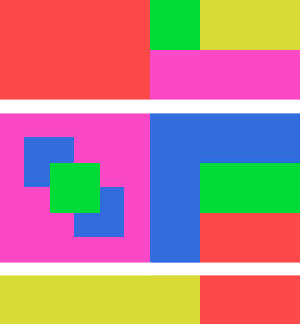
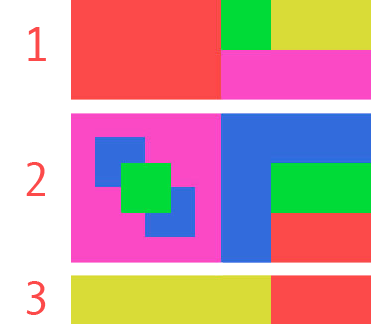
"Lesson 2 > second row part" update

diff --git a/_sass/pages/_lessons.scss b/_sass/pages/_lessons.scss
@@ -12,6 +12,46 @@
     }
 }
 
+.lesson-step {
+   margin-bottom: 15px;
+   position: relative;
+   text-align: center;
+
+   p {
+       $_size: 24px;
+
+       @include theme-global("background-color", "alternate-color");
+
+       border-radius: 50%;
+       color: #FFFFFF;
+       display: inline-block;
+       margin-bottom: 0;
+
+       line-height: $_size;
+       height: $_size;
+       width: $_size;
+
+       &:after,
+       &:before {
+           @include theme-global("background-color", "alternate-color");
+
+           content: '';
+           height: 1px;
+           margin-top: 10px;
+           position: absolute;
+           width: 40%;
+       }
+
+       &:after {
+           right: 0;
+       }
+
+       &:before {
+           left: 0;
+       }
+   }
+}
+
 .lesson-content {
     h2 {
         font-size: 28px;

diff --git a/_sass/_theme-definitions.scss b/_sass/_theme-definitions.scss
@@ -2,7 +2,8 @@ $default: (
     "site-background-color": #EBEBEB,
     "content-background-color": #FFFFFF,
     "font-color": #000000,
-    "anchor-color": #87CEEB
+    "anchor-color": #87CEEB,
+    "alternate-color": #46A5E6
 );
 
 $themes: (

diff --git a/_lessons/chapter-02/lesson-2-working-from-a-design.md b/_lessons/chapter-02/lesson-2-working-from-a-design.md
@@ -22,7 +22,7 @@ Something to keep in mind is the fact that with code, there is never a wrong ans
 
 ## Step 1
 
-The first step is to use our best judgement and split up the design into rows. Take note, with this example there are *several* different ways of setting this up but this tutorial will take you on only one of them.
+The first step is to use our best judgement and split up the design into rows. Take note, with this example there are *several* different ways of setting this up but this tutorial will take you on only one of them with 3 rows.
 
 ![Layout Challenge 1 split into rows]({{ '/assets/lessons/chapter-2/lesson-2/layout-challenge-1-rows.png' | prepend: site.baseurl }})
 
@@ -37,7 +37,7 @@ The `.row` class is used to maintain the width of this element and to keep all o
 When writing these classes, it is important to keep in mind to write as few classes as possible and ensure that they can be combined with other classes. In this example, to achieve an element that is 150px by 50px in size you would not want to write a class that has those dimensions hard coded; instead, you would want to have separate classes so the sizes can be reused. By combining two classes, you can achieve these dimensions and you'd be able to reuse one of those classes if you need to create an element that's 150px by 100px.
 
 <div class="alert alert-warning" role="alert">
-    <strong>Heads up!</strong> Combining classes only work when the properties can work in conjunction, for example `width` and `height` do not conflict and can work when put together. This approach does not allow you to use addition so you would not be able to combine two `.col-w-*` classes and expect to get the sum of them, instead you would just be overriding one of the values.
+    <span markdown="1">**Heads up!** Combining classes only works when the properties can work in conjunction, for example `width` and `height` do not conflict and can work when put together. This approach does not allow you to use addition so you would not be able to combine two `.col-w-*` classes and expect to get the sum of them, instead you would just be overriding one of the values.</span>
 </div>
 
 {% capture rowColSetup %}
@@ -54,6 +54,7 @@ When writing these classes, it is important to keep in mind to write as few clas
     .col-w-1, .col-w-2,
     .col-w-3, .col-w-4 {
         float: left;
+        position: relative;
     }
     .col-w-1 { width: 50px; }
     .col-w-2 { width: 100px; }
@@ -71,9 +72,11 @@ When writing these classes, it is important to keep in mind to write as few clas
 
 ```css{{ rowColSetup }}```
 
-The first row we will be creating can be seen below; each of the colored elements will be referred to as a cell. First we must define that we want a row of cells so we start by creating an element with the `row` class.
+### First Row
 
-The `<div>` tag is one of the most heavily used tags in HTML and should be used for divisions in layouts or to create "objects," so to speak (more on this later). All HTML elements can use the `class` attribute, which has support for multiple classes delimited by spaces as described above.
+The first row we will be creating can be seen below; each of the colored elements will be referred to as a cell. First we must define that we want a row of cells so we start by creating an element with the `row` class, which is limited to 300px width. By limiting the width, floats will be automatically move to the next line if it does not fit in its parent.
+
+The `<div>` tag is one of the most heavily used tags in HTML and should be used for divisions in layouts or to create "objects," so to speak (more on this later). All HTML elements can use the `class` attribute, which has support for multiple classes being combined, delimited by spaces, as described above.
 
 {% capture firstRow %}
 <div class="row">
@@ -84,9 +87,46 @@ The `<div>` tag is one of the most heavily used tags in HTML and should be used 
 </div>
 {% endcapture %}
 
-{% include sandbox.html lang="html" code=firstRow setup=rowColSetup %}
+{% include sandbox.html lang="html" code=firstRow setup=rowColSetup frameless=1 %}
 
-@todo Write next section
+### Second Row
+
+The only shape available in HTML are rectangles (*squares are rectangles*); all of the other shapes you can create such as triangles or ovals, are still rectangles but are partially transparent to create those shapes.
+
+<div class="row">
+    <div class="col-md-4">
+        <img src="{{ '/assets/lessons/chapter-2/lesson-2/layout-challenge-1-second-split-1.png' | prepend: site.baseurl }}"
+             alt="Splitting option 1" />
+
+        <div class="lesson-step">
+            <p>1</p>
+        </div>
+    </div>
+    <div class="col-md-4">
+        <img src="{{ '/assets/lessons/chapter-2/lesson-2/layout-challenge-1-second-split-2.png' | prepend: site.baseurl }}"
+             alt="Splitting option 2" />
+
+        <div class="lesson-step">
+            <p>2</p>
+        </div>
+    </div>
+    <div class="col-md-4">
+        <img src="{{ '/assets/lessons/chapter-2/lesson-2/layout-challenge-1-second-split-3.png' | prepend: site.baseurl }}"
+             alt="Splitting option 3" />
+
+        <div class="lesson-step">
+            <p>3</p>
+        </div>
+    </div>
+</div>
+
+1. As mentioned, all shapes in HTML are rectangular so the blue tetris piece can not be recreated as-is. There are ways of mocking this sort of shape with absolute positioning, and multiple elements but it's harder to maintain and not feasible.
+1. This option consists of nothing but rectangles so it can be created easily with vanilla HTML and CSS.
+1. The same as option 2 applies to this option.
+
+In this example, we'll be going with option 2 (as seen below). Options 2 and 3 take advantage of floats being contained within its parents so they will automatically wrap to the next line. This means that all 150px by 50px blocks will stack up on each other since they continue to wrap to the next line.
+
+*If you add another element after the last red block, it'll wrap to the next line and appear under the purple square.*
 
 {% capture secondRow %}
 <div class="row">
@@ -98,7 +138,56 @@ The `<div>` tag is one of the most heavily used tags in HTML and should be used 
 </div>
 {% endcapture %}
 
-{% include sandbox.html lang="html" code=secondRow setup=rowColSetup %}
+{% include sandbox.html lang="html" code=secondRow setup=rowColSetup frameless=1 %}
+
+#### Absolute Positioning
+
+You may have noticed that our output does not exactly look like our picture for this row (i.e. there are no green and blue squares inside of the purple square). These squares can be placed in a fixed location with the `position` propery and using the `absolute` value.
+
+In order to use `position: absolute`, the parent must have `position: relative` or else the child element will be relative to the browser, which is not what we want because resizing the browser will cause all sorts of issues.
+
+To achieve our goal, we will be adding new cells inside of our parent in order for them to be positioned absolutely with respect to the parent. We will create a `.col-absolute` class which will have the `position` property and we have it as a separate class because it will be reused by different elements that can be placed in different locations. Notice, we will also be reusing the classes we created earlier to set the cell height.
+
+{% capture secondRowAbsolute %}
+<style>
+    .col-absolute {
+        position: absolute;
+    }
+
+    .col-center {
+        bottom: 0;
+        overflow: auto;
+        left: 0;
+        margin: auto;
+        right: 0;
+        top: 0;
+    }
+
+    .col-top-left {
+        top: 25px;
+        left: 25px;
+    }
+
+    .col-bottom-right {
+        bottom: 25px;
+        right: 25px;
+    }
+</style>
+
+<div class="row">
+    <div class="col-w-3 col-h-3 color-purple">
+        <div class="col-w-1 col-h-1 col-absolute col-top-left color-blue"></div>
+        <div class="col-w-1 col-h-1 col-absolute col-bottom-right color-blue"></div>
+        <div class="col-w-1 col-h-1 col-absolute col-center color-green"></div>
+    </div>
+    <div class="col-w-1 col-h-3 color-blue"></div>
+    <div class="col-w-2 col-h-1 color-blue"></div>
+    <div class="col-w-2 col-h-1 color-green"></div>
+    <div class="col-w-2 col-h-1 color-red"></div>
+</div>
+{% endcapture %}
+
+{% include sandbox.html lang="html" code=secondRowAbsolute setup=rowColSetup frameless=1 %}
 
 @todo Write last section
 
@@ -109,4 +198,4 @@ The `<div>` tag is one of the most heavily used tags in HTML and should be used 
 </div>
 {% endcapture %}
 
-{% include sandbox.html lang="html" code=thirdRow setup=rowColSetup %}
+{% include sandbox.html lang="html" code=thirdRow setup=rowColSetup frameless=1 %}
